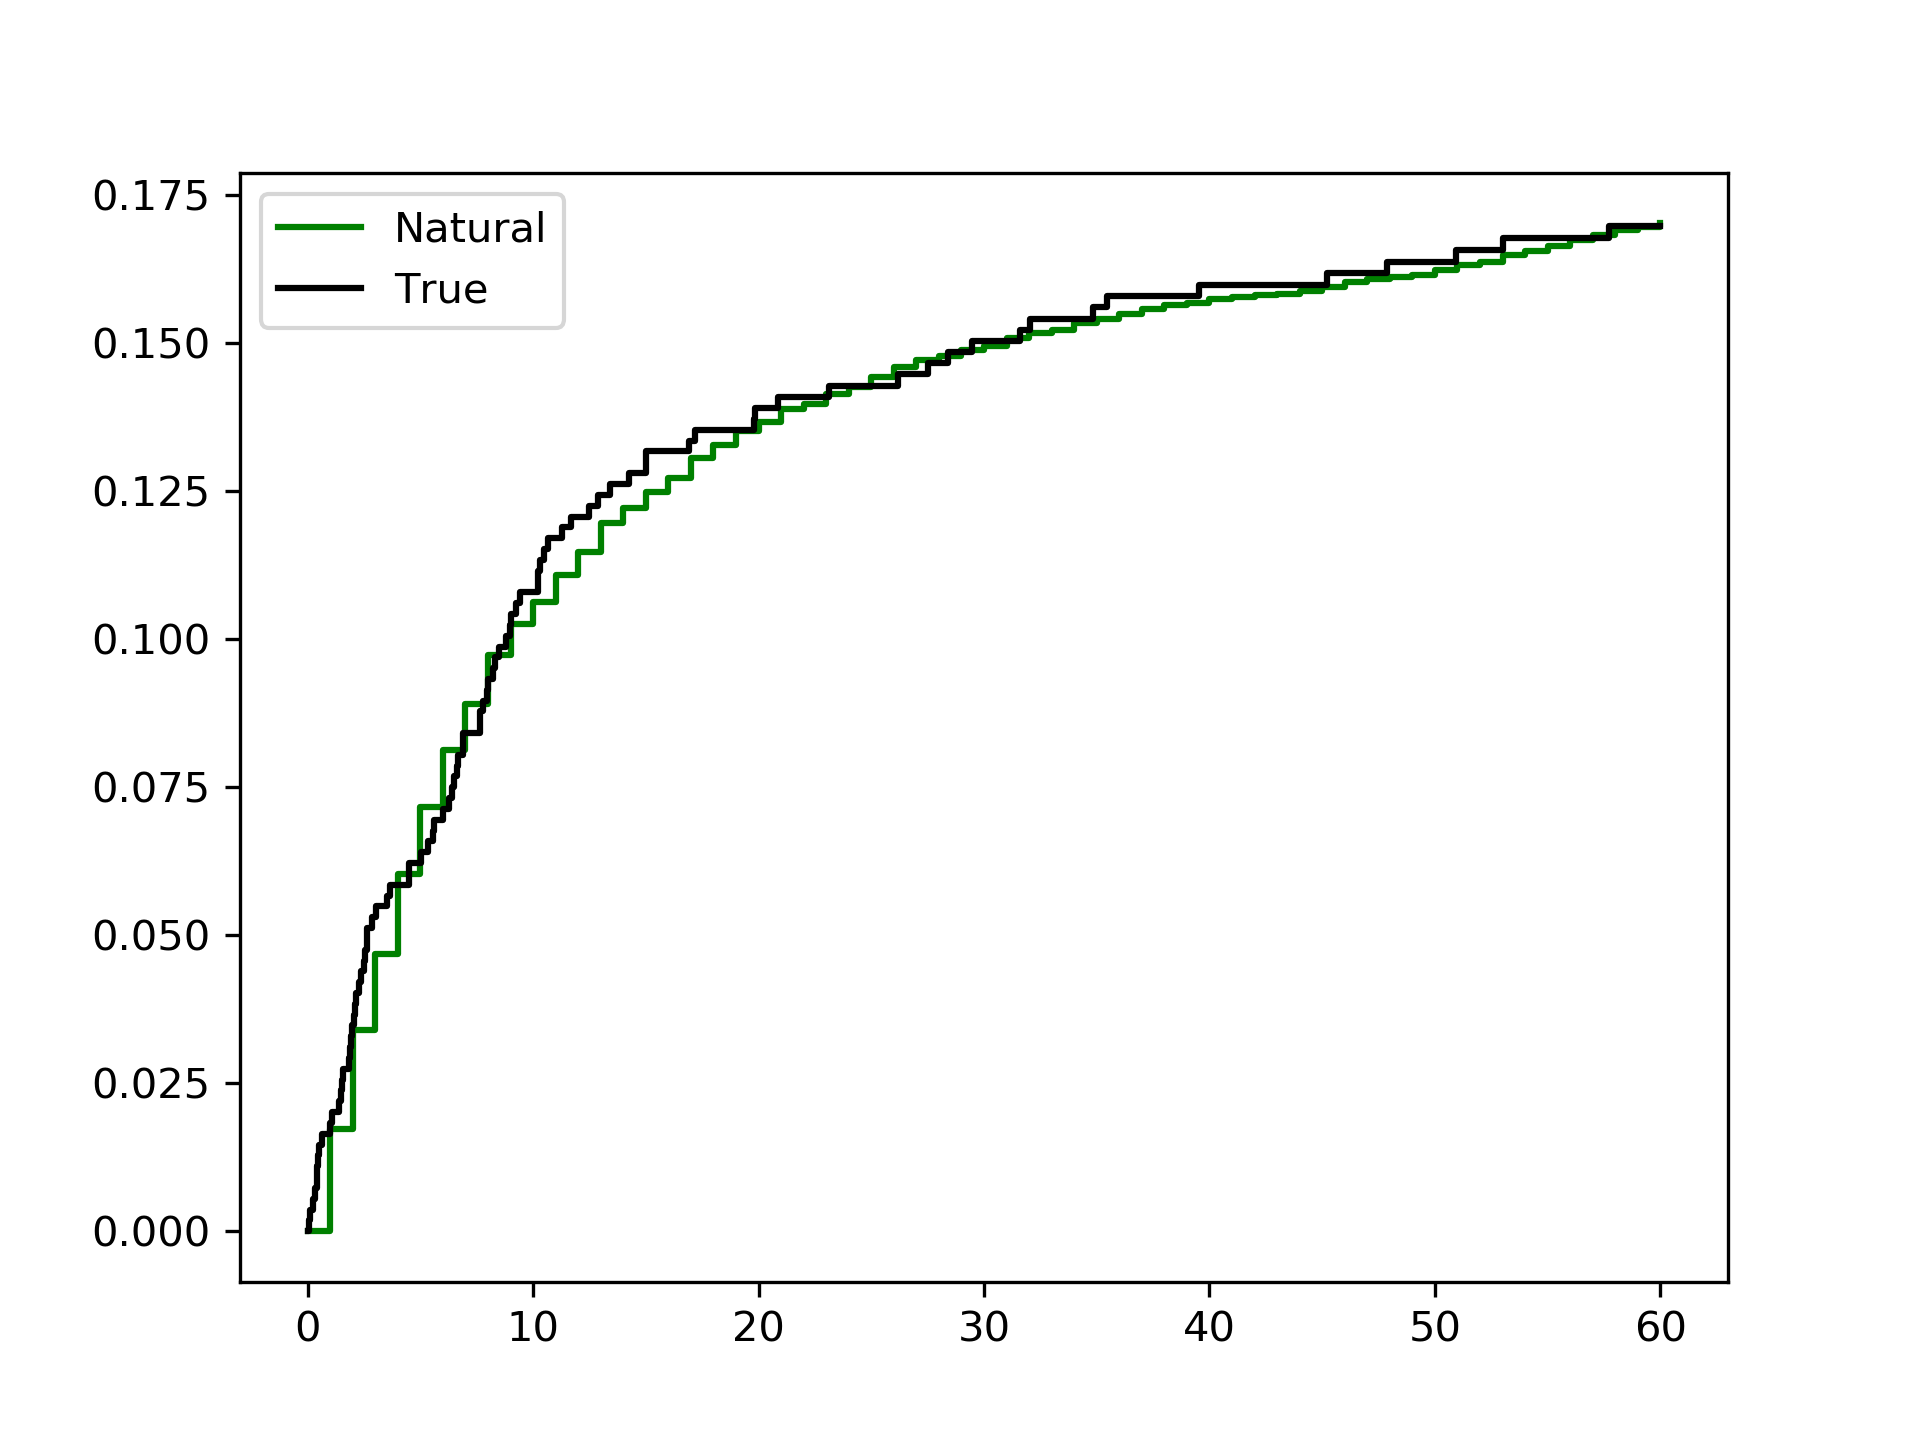
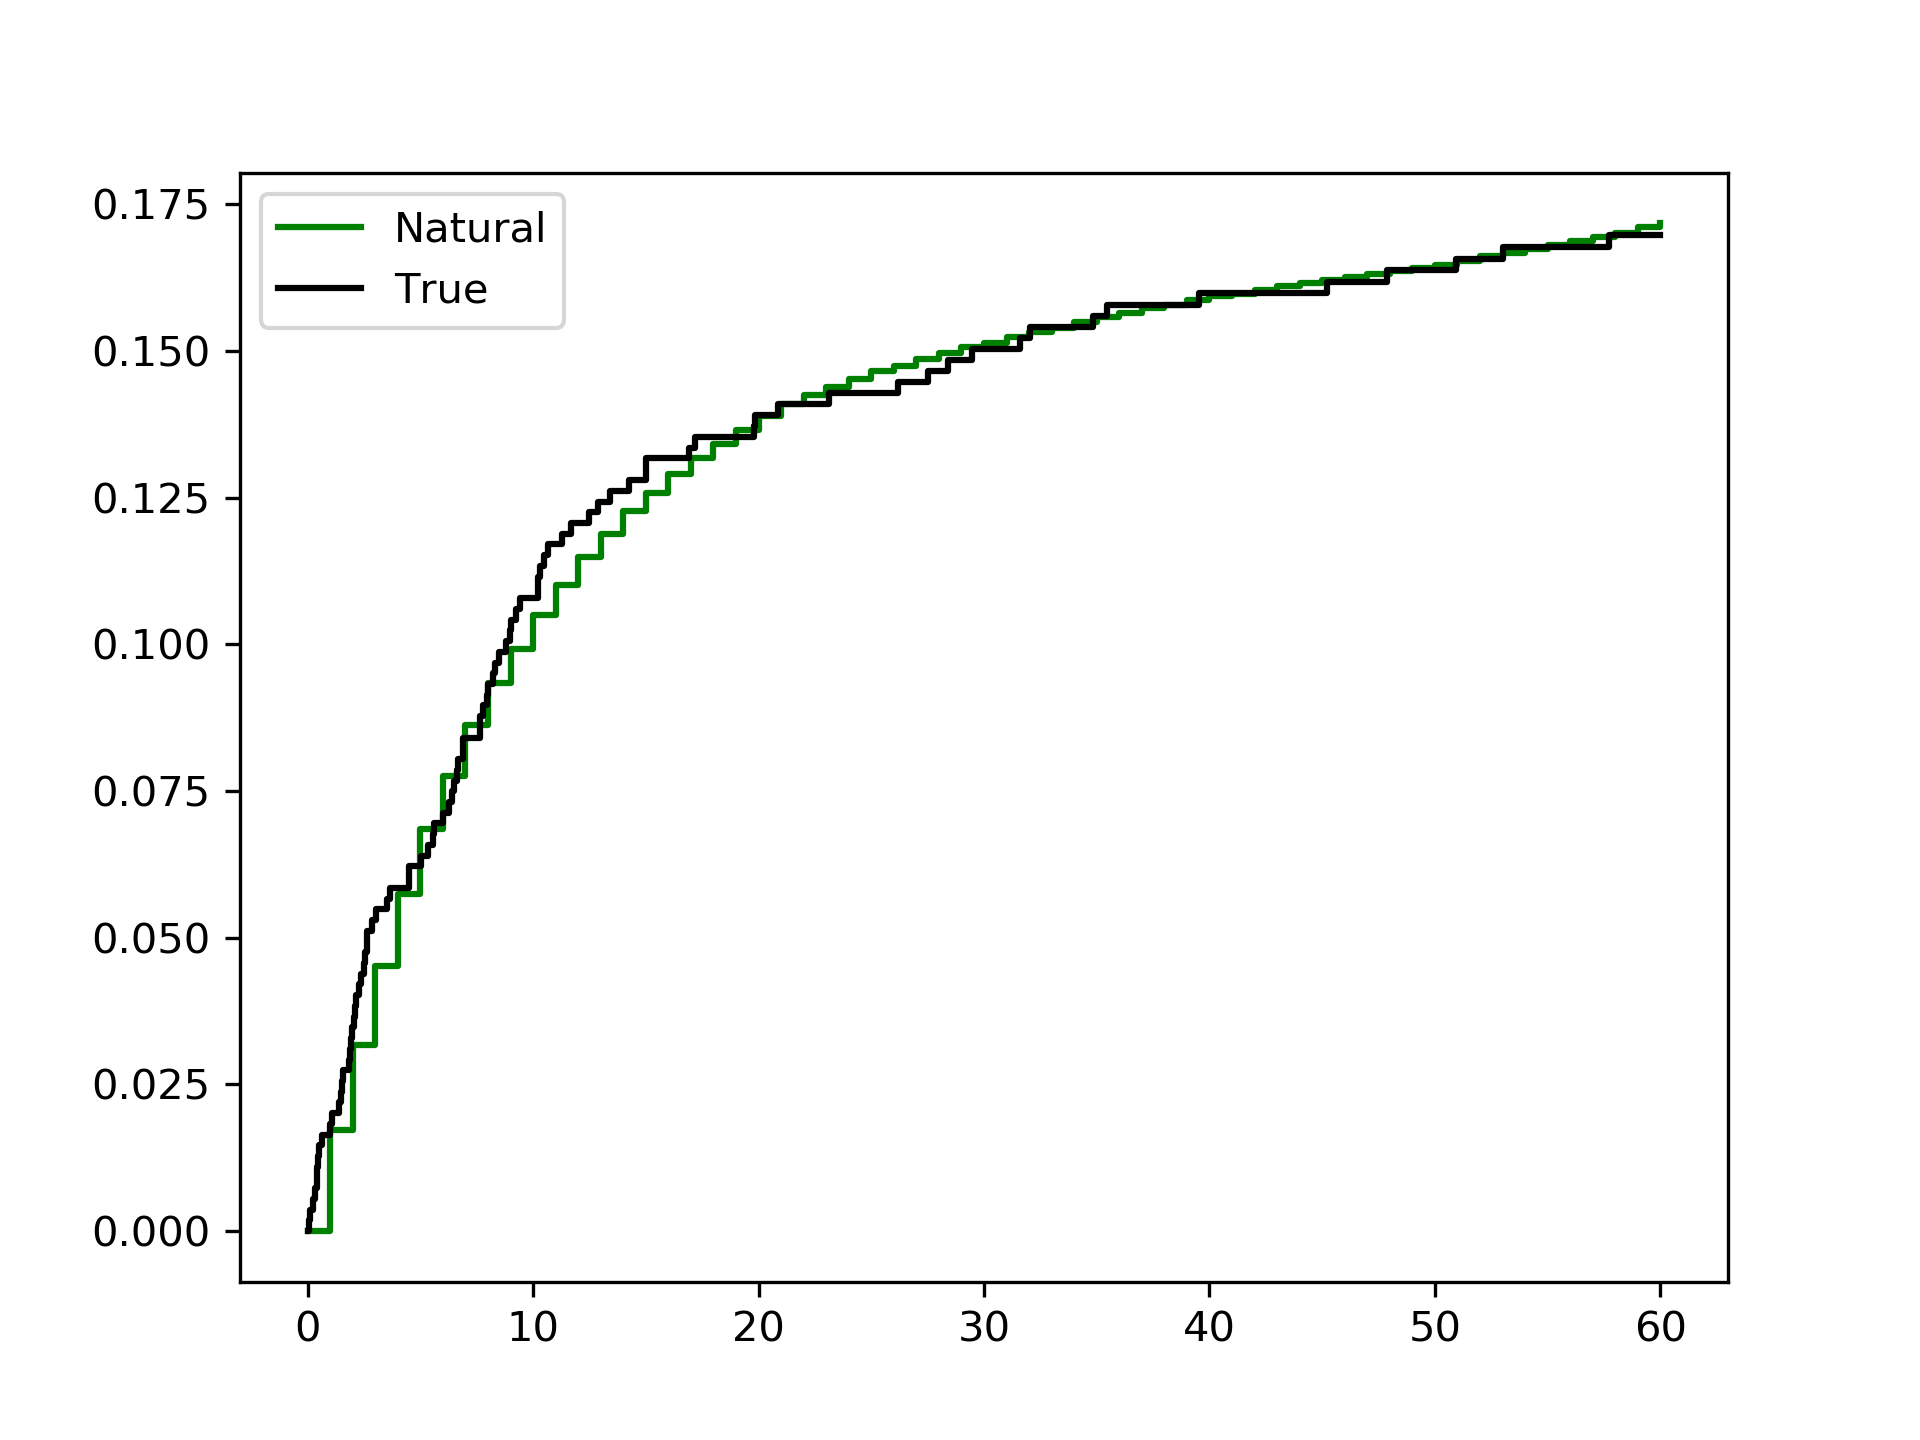
update to the website for the g-formula

diff --git a/docs/Causal.rst b/docs/Causal.rst
@@ -627,7 +627,7 @@ form for the entrance times. Syntax is also similar.
         lags={'art': 'lag_art',
               'cd4': 'lag_cd4',
               'dvl': 'lag_dvl'},
-        sample=10000,
+        sample=50000,
         t_max=None,
         in_recode=("g['enter_sq'] = g['enter']**2;"
                    "g['enter_cu'] = g['enter']**3"))
@@ -676,7 +676,7 @@ treatment patterns and the corresponding Kaplan Meier fitting.
         lags={'art': 'lag_art',
               'cd4': 'lag_cd4',
               'dvl': 'lag_dvl'},
-        sample=10000,
+        sample=50000,
         t_max=None,
         in_recode=("g['enter_sq'] = g['enter']**2;"
                    "g['enter_cu'] = g['enter']**3"))
@@ -689,7 +689,7 @@ treatment patterns and the corresponding Kaplan Meier fitting.
         lags={'art': 'lag_art',
               'cd4': 'lag_cd4',
               'dvl': 'lag_dvl'},
-        sample=10000,
+        sample=50000,
         t_max=None,
         in_recode=("g['enter_sq'] = g['enter']**2;"
                    "g['enter_cu'] = g['enter']**3"))
@@ -702,7 +702,7 @@ treatment patterns and the corresponding Kaplan Meier fitting.
         lags={'art': 'lag_art',
               'cd4': 'lag_cd4',
               'dvl': 'lag_dvl'},
-        sample=10000,
+        sample=50000,
         t_max=None,
         in_recode=("g['enter_sq'] = g['enter']**2;"
                    "g['enter_cu'] = g['enter']**3"))
@@ -730,6 +730,11 @@ Confidence Intervals
 ~~~~~~~~~~~~~~~~~~~~~~~~~~~~~~~~~~~~~~~~~~~~~~
 To obtain confidence intervals, nonparametric bootstrapping should be used. Take note that this will take awhile to
 finish (especially if a high number of resampling is used).
+
+As of version 0.2.0, TimeVaryGFormula is slower than SAS. I am working on speeding up TimeVaryGFormula to be competitive
+but this is going to take time. My next plan is to look into Cython. Hopefully, giving me a speed boost. If you are
+interested in optimization problems or have some experience, please contact me on GitHub. I am happy to have all the help
+I can get.
 
 Inverse Probability of Treatment Weights
 ------------------------------------------
